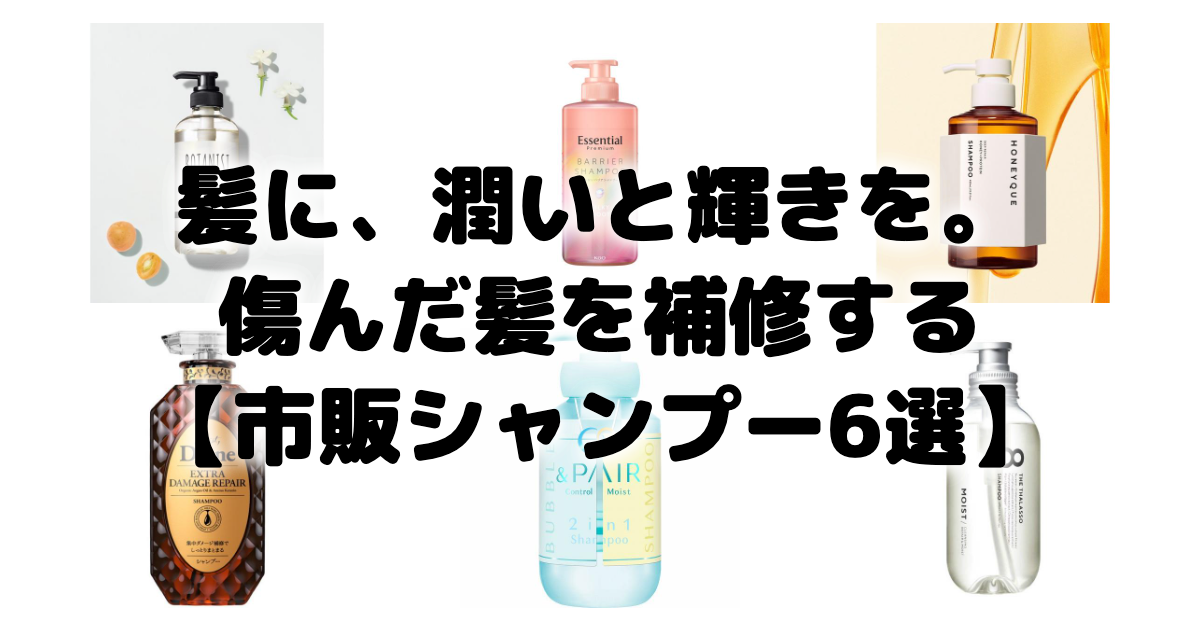
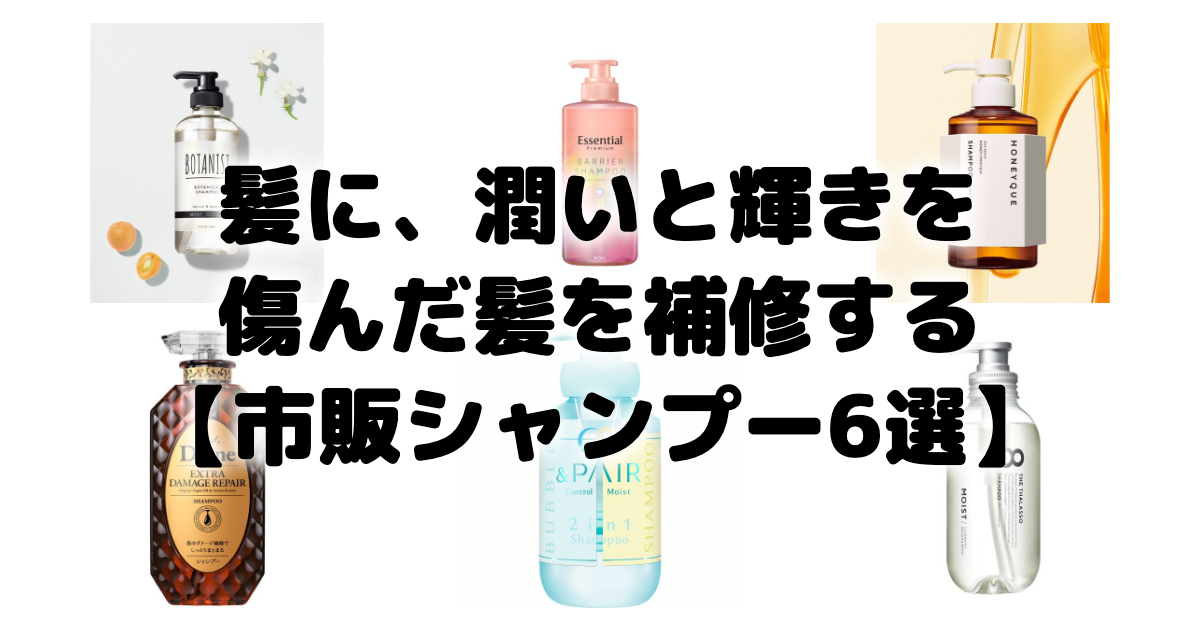
Eyecatch: remove 。from line 1 for even centering

Changed region(s): [[0.1233, 0.2413, 0.8325, 0.4222]]

diff --git a/public/eyecatch/20260526-best-shampoos-for-damaged-hair.html b/public/eyecatch/20260526-best-shampoos-for-damaged-hair.html
@@ -16,5 +16,5 @@ body { font-family: 'M PLUS Rounded 1c', sans-serif; display: flex; align-items:
 <div class="pw"><img src="https://item-shopping.c.yimg.jp/i/l/fujiyaku_4589546899478" class="pi" alt="" loading="eager" /></div>
 <div class="pw"><img src="https://item-shopping.c.yimg.jp/i/l/y-kojima_4589919568833" class="pi" alt="" loading="eager" /></div>
 </div>
-<div class="to"><h1 class="ti">髪に、潤いと輝きを。<br />傷んだ髪を補修する<br />【市販シャンプー6選】</h1></div>
+<div class="to"><h1 class="ti">髪に、潤いと輝きを<br />傷んだ髪を補修する<br />【市販シャンプー6選】</h1></div>
 </body></html>
